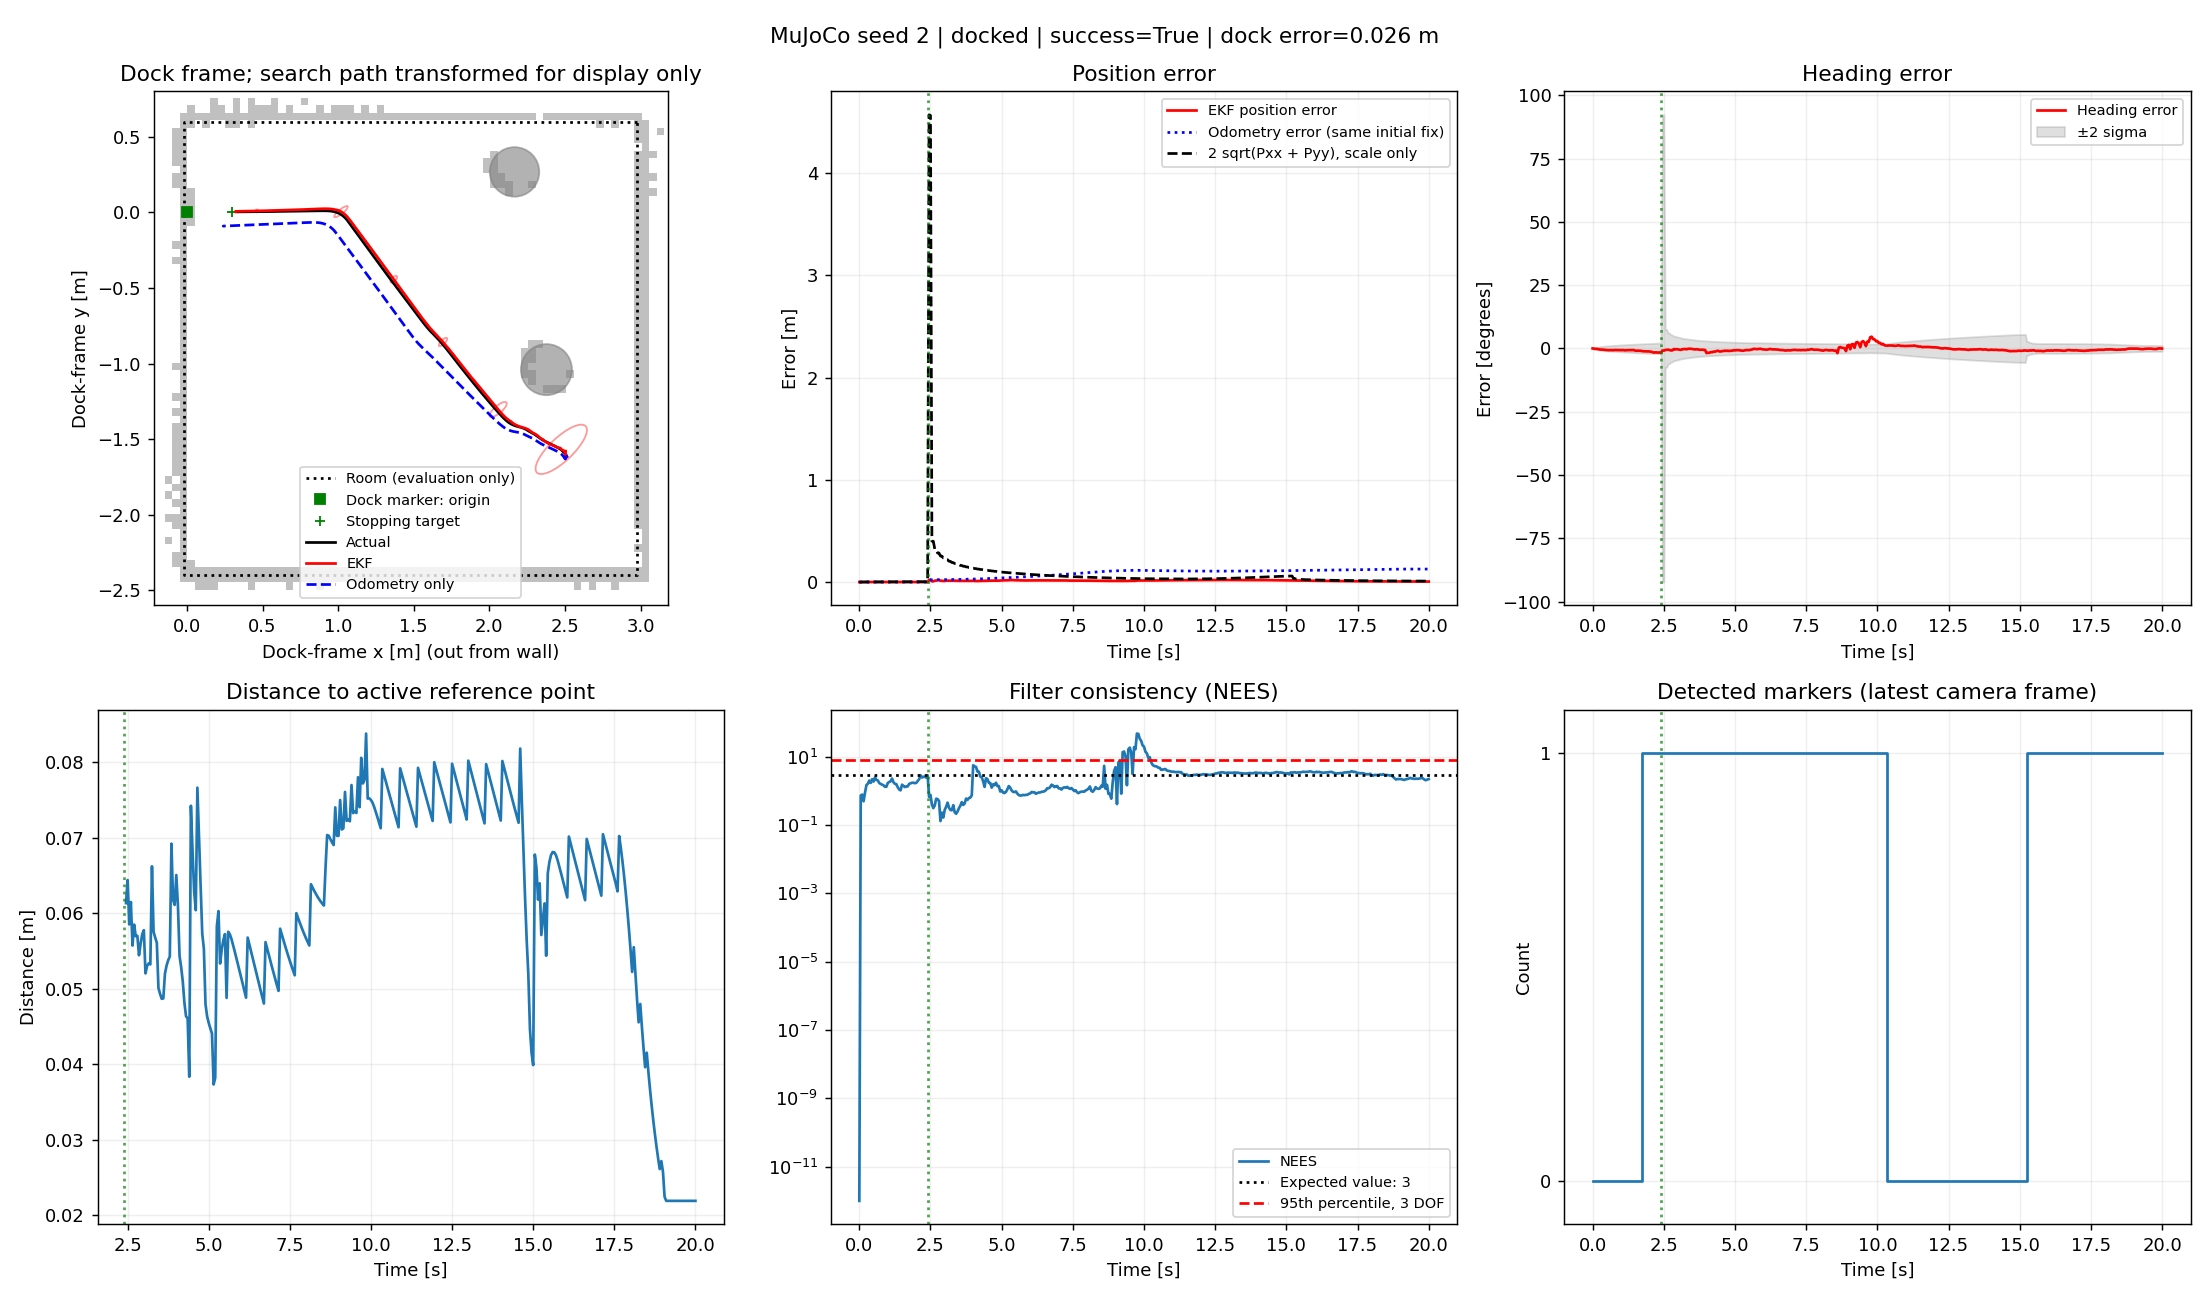
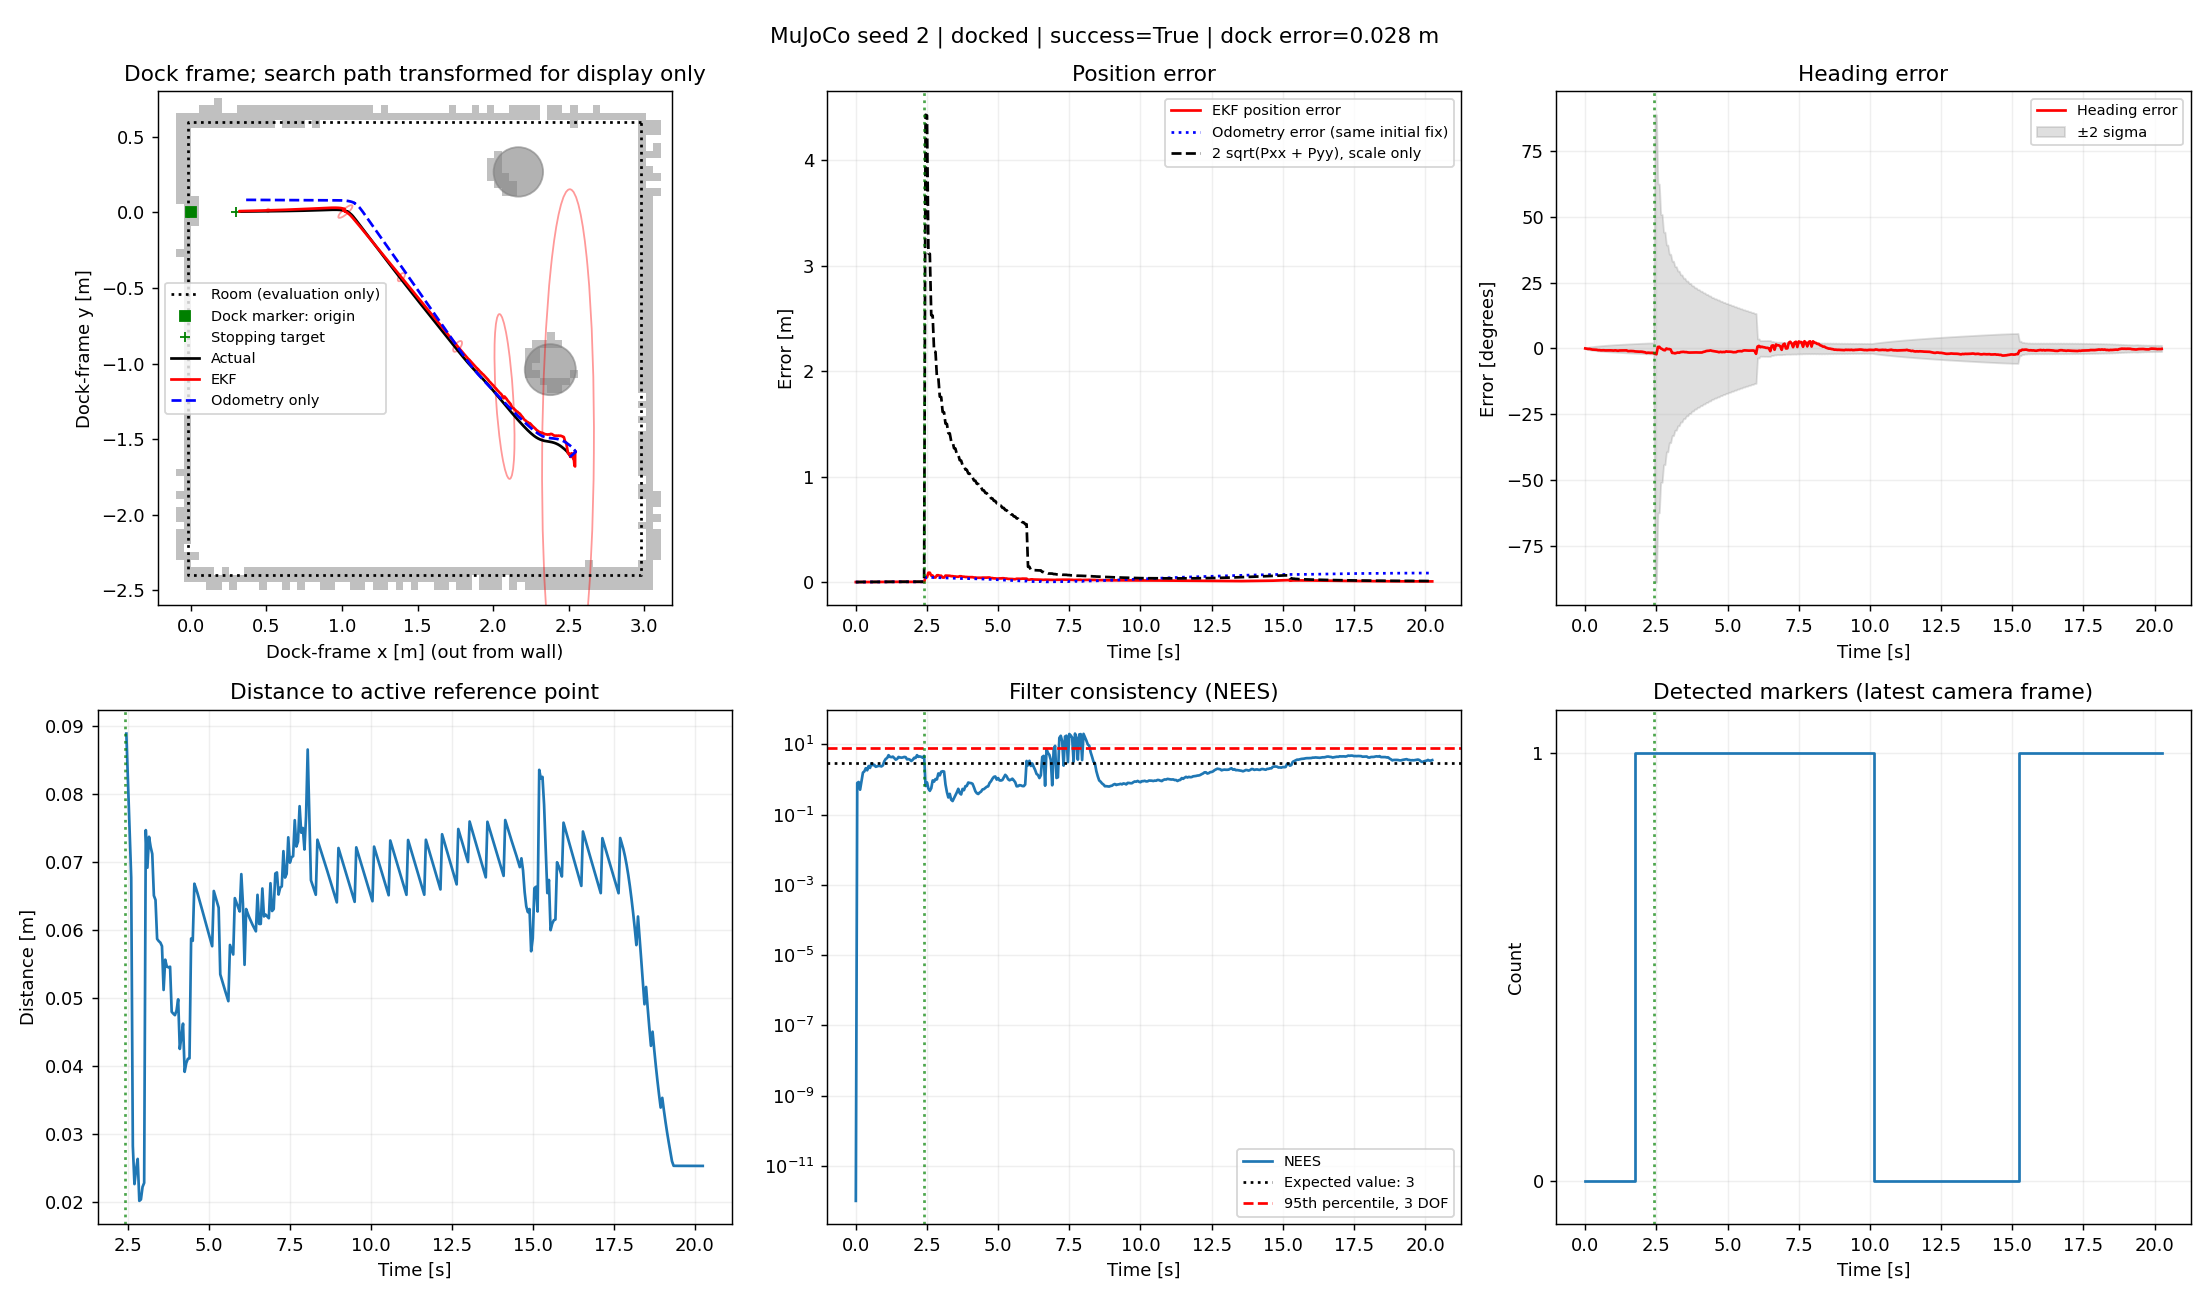
camera calibration

diff --git a/track A - mobile robot/tools/calibrate_camera.py b/track A - mobile robot/tools/calibrate_camera.py
@@ -1,0 +1,64 @@
+"""Calibrate the robot's MuJoCo camera with a checkerboard (Part B):  python tools/calibrate_camera.py
+
+Intrusive calibration (measured by the robot, cam focal point ect) not extrusive: (cam and lidar offset, robo height real world truth)
+Shows the camera the board in 30 random poses, finds the corners, runs cv2.calibrateCamera,
+and compares the result with the true focal length set by the camera's fovy.
+Corner finding and the 9 x 6 / 25 mm board are from the Week 3 tutorial (measured_corners, Part C).
+"""
+import sys
+from pathlib import Path
+import numpy as np
+import cv2
+import mujoco
+
+ROOT = Path(__file__).resolve().parents[1]
+sys.path.insert(0, str(ROOT))
+from src import config as C  # noqa: E402
+
+gx, gy, sq = 9, 6, 0.025
+# Board corners in the board's own frame (Z = 0 plane), as in the Week 3 tutorial
+P_board = np.array([[i * sq, j * sq, 0] for j in range(gy) for i in range(gx)], np.float32)
+
+
+def measured_corners(g):
+    """Sub-pixel checkerboard corners (Week 3 tutorial)."""
+    ok, c = cv2.findChessboardCorners(g, (gx, gy))
+    if not ok:
+        return None
+    crit = (cv2.TERM_CRITERIA_EPS + cv2.TERM_CRITERIA_MAX_ITER, 30, 0.001)
+    return cv2.cornerSubPix(g, c, (11, 11), (-1, -1), crit)
+
+
+m = mujoco.MjModel.from_xml_path(str(ROOT / "assets" / "calib.xml"))
+d = mujoco.MjData(m)
+mujoco.mj_forward(m, d)
+cam = d.cam_xpos[m.camera("cam").id].copy()
+r = mujoco.Renderer(m, 480, 640)
+rng = np.random.default_rng(0)
+obj, img = [], []
+save = "--save" in sys.argv
+if save:
+    (C.RESULTS_DIR / "calib_images").mkdir(exist_ok=True)
+
+while len(img) < 30:
+    # Random board pose in front of the camera, spread across the whole image
+    dist = rng.uniform(0.3, 0.7)
+    d.mocap_pos[0] = cam + [dist, rng.uniform(-0.45, 0.45) * dist, rng.uniform(-0.3, 0.3) * dist]
+    q = np.zeros(4)
+    mujoco.mju_euler2Quat(q, [rng.uniform(-0.35, 0.35), rng.uniform(-0.5, 0.5), np.pi + rng.uniform(-0.5, 0.5)], "xyz")
+    d.mocap_quat[0] = q
+    mujoco.mj_forward(m, d)
+    r.update_scene(d, camera="cam")
+    g = cv2.cvtColor(r.render(), cv2.COLOR_RGB2GRAY)
+    c = measured_corners(g)
+    if c is not None:
+        obj.append(P_board); img.append(c)
+        if save:
+            cv2.imwrite(str(C.RESULTS_DIR / "calib_images" / f"view_{len(img):02d}.png"),
+                        cv2.drawChessboardCorners(cv2.cvtColor(g, cv2.COLOR_GRAY2BGR), (gx, gy), c, True))
+
+rms, K, dist_coef, _, _ = cv2.calibrateCamera(obj, img, (640, 480), None, None)
+fx_true = 240 / np.tan(np.deg2rad(m.cam_fovy[m.camera("cam").id]) / 2)
+print(f"{len(img)} views, RMS reprojection error {rms:.3f} px")
+print(f"fx {K[0, 0]:.1f} px (true {fx_true:.1f}, config {C.FX})   fy {K[1, 1]:.1f}   cx {K[0, 2]:.1f}   cy {K[1, 2]:.1f}")
+print(f"fx error {100 * (K[0, 0] - fx_true) / fx_true:+.2f} %")
